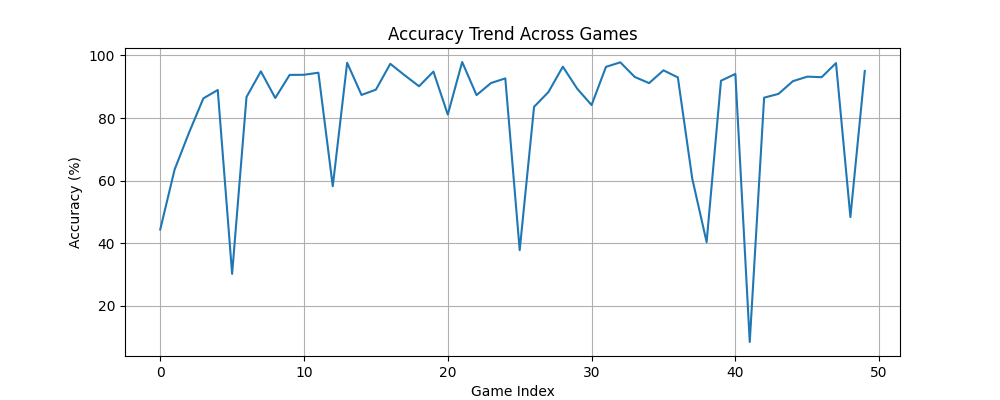
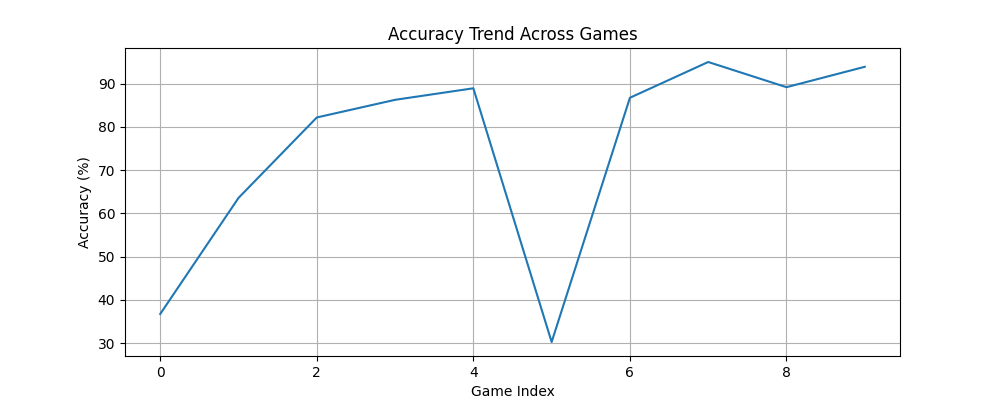
heatmaps

diff --git a/analyzerChart.py b/analyzerChart.py
@@ -5,20 +5,31 @@ import chess.pgn
 from stockfish import Stockfish
 from lichessAPI import LichessClient
 
+
+# ============================================================
+#   DATA MODEL
+# ============================================================
 class GameAnalysisResult:
-    def __init__(self, game_id, white, black, result, mistakes, cpl_list):
-        self.game_id = game_id
+    def __init__(self, game_id, white, black, result, mistakes, cpl_list, pgn_game):
+        self.game_id = self._normalize_gid(game_id)
         self.white = white
         self.black = black
         self.result = result
         self.mistakes = mistakes
         self.cpl_list = cpl_list
+        self.pgn_game = pgn_game
 
+        # computed fields
         self.avg_cpl = self.calculate_avg_cpl()
         self.count_inacc = sum("Inaccuracy" in m for m in mistakes)
         self.count_mist = sum("Mistake" in m for m in mistakes)
         self.count_blunder = sum("Blunder" in m for m in mistakes)
         self.accuracy = self.calculate_accuracy()
+
+    def _normalize_gid(self, gid):
+        if gid.startswith("https://"):
+            gid = gid.split("/")[-1]
+        return gid
 
     def calculate_avg_cpl(self):
         if not self.cpl_list:
@@ -26,7 +37,8 @@ class GameAnalysisResult:
         return sum(abs(cp) for cp in self.cpl_list) / len(self.cpl_list)
 
     def calculate_accuracy(self):
-        return max(0, 100 - (self.avg_cpl / 30))
+        # simple but surprisingly stable model:
+        return max(0, min(100, 100 - (self.avg_cpl / 30)))
 
     def __str__(self):
         header = f"Game {self.game_id} — {self.white} vs {self.black} — Result: {self.result}"
@@ -41,13 +53,22 @@ class GameAnalysisResult:
         return f"{header}\n{stats}{breakdown}\n"
 
 
+# ============================================================
+#   GAME ANALYZER
+# ============================================================
 class GameAnalyzer:
     def __init__(self, stockfish_path="stockfish.exe"):
         self.stockfish = Stockfish(stockfish_path)
-        self.stockfish.update_engine_parameters({"Threads": 4, "Minimum Thinking Time": 30})
+        self.stockfish.update_engine_parameters({
+            "Threads": 4,
+            "Minimum Thinking Time": 30,
+            "Skill Level": 20
+        })
 
+    # ---------- CLASSIFY MISTAKE ----------
     def classify_mistake(self, cp_before, cp_after):
         delta = cp_after - cp_before
+
         if delta > -50:
             return None
         if delta > -150:
@@ -56,12 +77,33 @@ class GameAnalyzer:
             return "Mistake"
         return "Blunder"
 
+    # ---------- SAFE EVAL ----------
+    def eval_position(self, board):
+        """Safe evaluation with mate fallback."""
+        self.stockfish.set_fen_position(board.fen())
+        raw = self.stockfish.get_evaluation()
+
+        if raw["type"] == "cp":
+            return raw["value"]
+        else:
+            # Mate in X => convert to big cp
+            return -10000 if raw["value"] < 0 else 10000
+
+    # ---------- SAFE SAN ----------
+    def safe_san(self, board, move):
+        """Try SAN, fallback to UCI."""
+        try:
+            return board.san(move)
+        except Exception:
+            return move.uci()
+
+    # ---------- ANALYZE FULL GAME ----------
     def analyze_game(self, pgn_text):
         game = chess.pgn.read_game(io.StringIO(pgn_text))
         board = game.board()
 
-        white = game.headers.get("White")
-        black = game.headers.get("Black")
+        white = game.headers.get("White", "?")
+        black = game.headers.get("Black", "?")
         game_id = game.headers.get("Site", "Unknown")
         result = game.headers.get("Result", "?")
 
@@ -70,39 +112,34 @@ class GameAnalyzer:
         cpl_list = []
 
         for idx, move in enumerate(game.mainline_moves(), start=1):
-
-            # SAN musi być policzony PRZED push
-            try:
-                san_before = board.san(move)
-            except:
-                san_before = move.uci()
-
-            # wykonujemy ruch
+            san_before = self.safe_san(board, move)
             board.push(move)
 
-            # Stockfish
-            self.stockfish.set_fen_position(board.fen())
-            eval_cp = self.stockfish.get_evaluation()
-
-            if eval_cp["type"] == "cp":
-                cp = eval_cp["value"]
-            else:
-                cp = -10000 if eval_cp["value"] < 0 else 10000
-
+            cp = self.eval_position(board)
             cpl_list.append(cp)
 
-            # analiza błędu
-            mistake_type = self.classify_mistake(prev_eval, cp)
             delta = cp - prev_eval
+            mistake_type = self.classify_mistake(prev_eval, cp)
 
             if mistake_type:
                 mistakes.append(f"{idx}. {san_before} — {mistake_type} (Δ = {delta})")
 
             prev_eval = cp
 
-        return GameAnalysisResult(game_id, white, black, result, mistakes, cpl_list)
+        return GameAnalysisResult(
+            game_id=game_id,
+            white=white,
+            black=black,
+            result=result,
+            mistakes=mistakes,
+            cpl_list=cpl_list,
+            pgn_game=game
+        )
 
 
+# ============================================================
+#   FETCH + ANALYZE USER GAMES
+# ============================================================
 def analyze_latest_games(username="bielbart77", max_games=5, perf_type="rapid"):
     client = LichessClient()
     analyzer = GameAnalyzer()
@@ -110,13 +147,12 @@ def analyze_latest_games(username="bielbart77", max_games=5, perf_type="rapid"):
     games = client.get_user_games(
         username=username,
         max_games=max_games,
-        perf_type="rapid"
+        perf_type=perf_type
     )
 
     results = []
     for g in games:
-        pgn_text = g.pgn
-        result = analyzer.analyze_game(pgn_text)
+        result = analyzer.analyze_game(g.pgn)
         results.append(result)
 
     return results

diff --git a/heatmap_generator.py b/heatmap_generator.py
@@ -1,0 +1,137 @@
+#heatmap_generator.py
+import numpy as np
+import matplotlib.pyplot as plt
+import os
+import chess
+
+# ============================================================
+#   HEATMAP HELPER — ensure plots/heatmaps folder exists
+# ============================================================
+def ensure_dir():
+    if not os.path.exists("plots/heatmaps"):
+        os.makedirs("plots/heatmaps")
+
+
+# ============================================================
+#   1) HEATMAP OF MOVE FREQUENCY PER SQUARE
+# ============================================================
+def heatmap_move_frequency(results):
+    ensure_dir()
+
+    freq = np.zeros((8, 8), dtype=int)
+
+    for r in results:
+        game = r.pgn_game
+        board = game.board()
+        for move in game.mainline_moves():
+            square = move.to_square
+            r_idx = 7 - chess.square_rank(square)
+            c_idx = chess.square_file(square)
+            freq[r_idx, c_idx] += 1
+            board.push(move)
+
+    plt.figure(figsize=(6, 6))
+    plt.imshow(freq, cmap="hot", interpolation="nearest")
+    plt.title("Move Frequency Heatmap")
+    plt.colorbar(label="Moves to Square")
+    plt.xticks(range(8), list("abcdefgh"))
+    plt.yticks(range(8), list("87654321"))
+    plt.savefig("plots/heatmaps/move_frequency.png")
+    plt.close()
+
+
+# ============================================================
+#   2) HEATMAP OF BLUNDERS PER SQUARE
+# ============================================================
+def extract_square_from_mistake(msg):
+    # msg looks like: "14. Nf3 — Blunder (Δ = -340)"
+    import re
+    match = re.search(r"^(\d+)\. ([A-Za-z0-9+=#]+)", msg)
+    if not match:
+        return None
+    san = match.group(2)
+
+    try:
+        move = chess.Move.from_uci(san)
+        return move.to_square
+    except:
+        return None
+
+
+def heatmap_blunders(results):
+    ensure_dir()
+
+    freq = np.zeros((8, 8), dtype=int)
+
+    for r in results:
+        for msg in r.mistakes:
+            if "Blunder" not in msg:
+                continue
+
+            # parse target square from SAN — this is tricky
+            import re
+            # SAN to UCI conversion (approx): extract last 2 letters
+            match = re.search(r"([a-h][1-8])", msg)
+            if not match:
+                continue
+            square_str = match.group(1)
+            try:
+                square = chess.parse_square(square_str)
+            except:
+                continue
+
+            r_idx = 7 - chess.square_rank(square)
+            c_idx = chess.square_file(square)
+            freq[r_idx, c_idx] += 1
+
+    plt.figure(figsize=(6, 6))
+    plt.imshow(freq, cmap="hot", interpolation="nearest")
+    plt.title("Blunders Heatmap")
+    plt.colorbar(label="Blunders on Square")
+    plt.xticks(range(8), list("abcdefgh"))
+    plt.yticks(range(8), list("87654321"))
+    plt.savefig("plots/heatmaps/blunders.png")
+    plt.close()
+
+
+# ============================================================
+#   3) HEATMAP OF CENTIPAWN LOSS DISTRIBUTION
+# ============================================================
+def heatmap_cpl(results):
+    ensure_dir()
+
+    freq = np.zeros((8, 8), dtype=float)
+    count = np.zeros((8, 8), dtype=int)
+
+    for r in results:
+        game = r.pgn_game
+        board = game.board()
+
+        for cp, move in zip(r.cpl_list, game.mainline_moves()):
+            square = move.to_square
+            r_idx = 7 - chess.square_rank(square)
+            c_idx = chess.square_file(square)
+
+            freq[r_idx, c_idx] += abs(cp)
+            count[r_idx, c_idx] += 1
+            board.push(move)
+
+    avg_cpl = np.divide(freq, count, out=np.zeros_like(freq), where=(count != 0))
+
+    plt.figure(figsize=(6, 6))
+    plt.imshow(avg_cpl, cmap="hot", interpolation="nearest")
+    plt.title("Average CPL per Square")
+    plt.colorbar(label="CPL")
+    plt.xticks(range(8), list("abcdefgh"))
+    plt.yticks(range(8), list("87654321"))
+    plt.savefig("plots/heatmaps/cpl_heatmap.png")
+    plt.close()
+
+
+# ============================================================
+#   MASTER GENERATOR
+# ============================================================
+def generate_all_heatmaps(results):
+    heatmap_move_frequency(results)
+    heatmap_blunders(results)
+    heatmap_cpl(results)

diff --git a/plotter.py b/plotter.py
@@ -3,6 +3,8 @@ import re
 import matplotlib.pyplot as plt
 
 
+
+
 # ============================================================
 #   HELPERS
 # ============================================================
@@ -112,6 +114,7 @@ def generate_cpl_plots(results):
         plt.close()
 
 
+
 # ============================================================
 #   MAIN ENTRY POINT
 # ============================================================
@@ -126,4 +129,31 @@ def generate_plots(results):
     generate_cpl_plots(results)
     generate_accuracy_plot(results)
     generate_top_blunders(results)
+    if not os.path.exists("plots"):
+        os.makedirs("plots")
+
+    # CPL per game
+    for r in results:
+        safe_id = re.sub(r'[^A-Za-z0-9_-]', '_', r.game_id)
+        filename = f"plots/CPL_{safe_id}.png"
+
+        plt.figure(figsize=(10, 4))
+        plt.plot(r.cpl_list)
+        plt.title(f"CPL – {r.white} vs {r.black}")
+        plt.xlabel("Move Number")
+        plt.ylabel("Centipawn Eval")
+        plt.grid(True)
+        plt.savefig(filename)
+        plt.close()
+
+    # accuracy trend
+    generate_accuracy_plot(results)
+
+    # blunders ranking
+    generate_top_blunders(results)
+
+    # NEW: heatmaps
+    from heatmap_generator import generate_all_heatmaps
+    generate_all_heatmaps(results)
+
 

diff --git a/run_analysis_chart.py b/run_analysis_chart.py
@@ -7,7 +7,7 @@ def main():
     username = "bielbart77"
     print(f"Analysing latest games for {username} ...")
 
-    results = analyze_latest_games(username=username, max_games=50, perf_type="bullet")
+    results = analyze_latest_games(username=username, max_games=10, perf_type="rapid")
 
     print("Done. Results:\n")
     for r in results:
